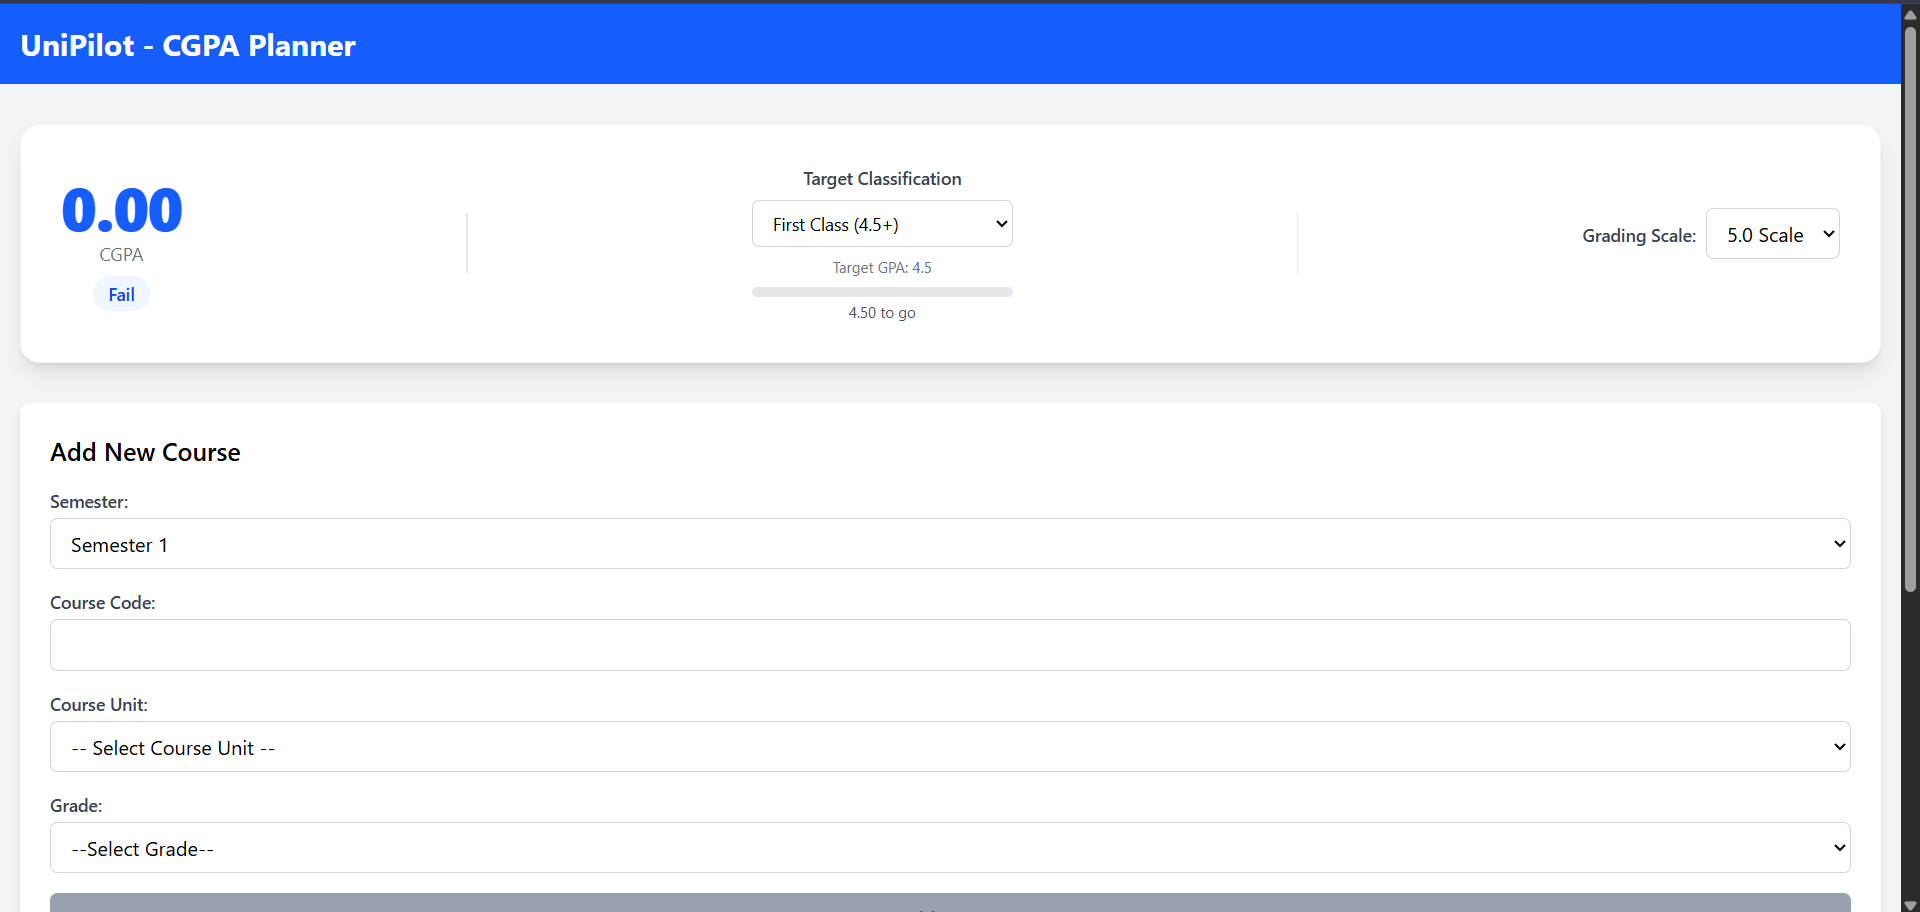
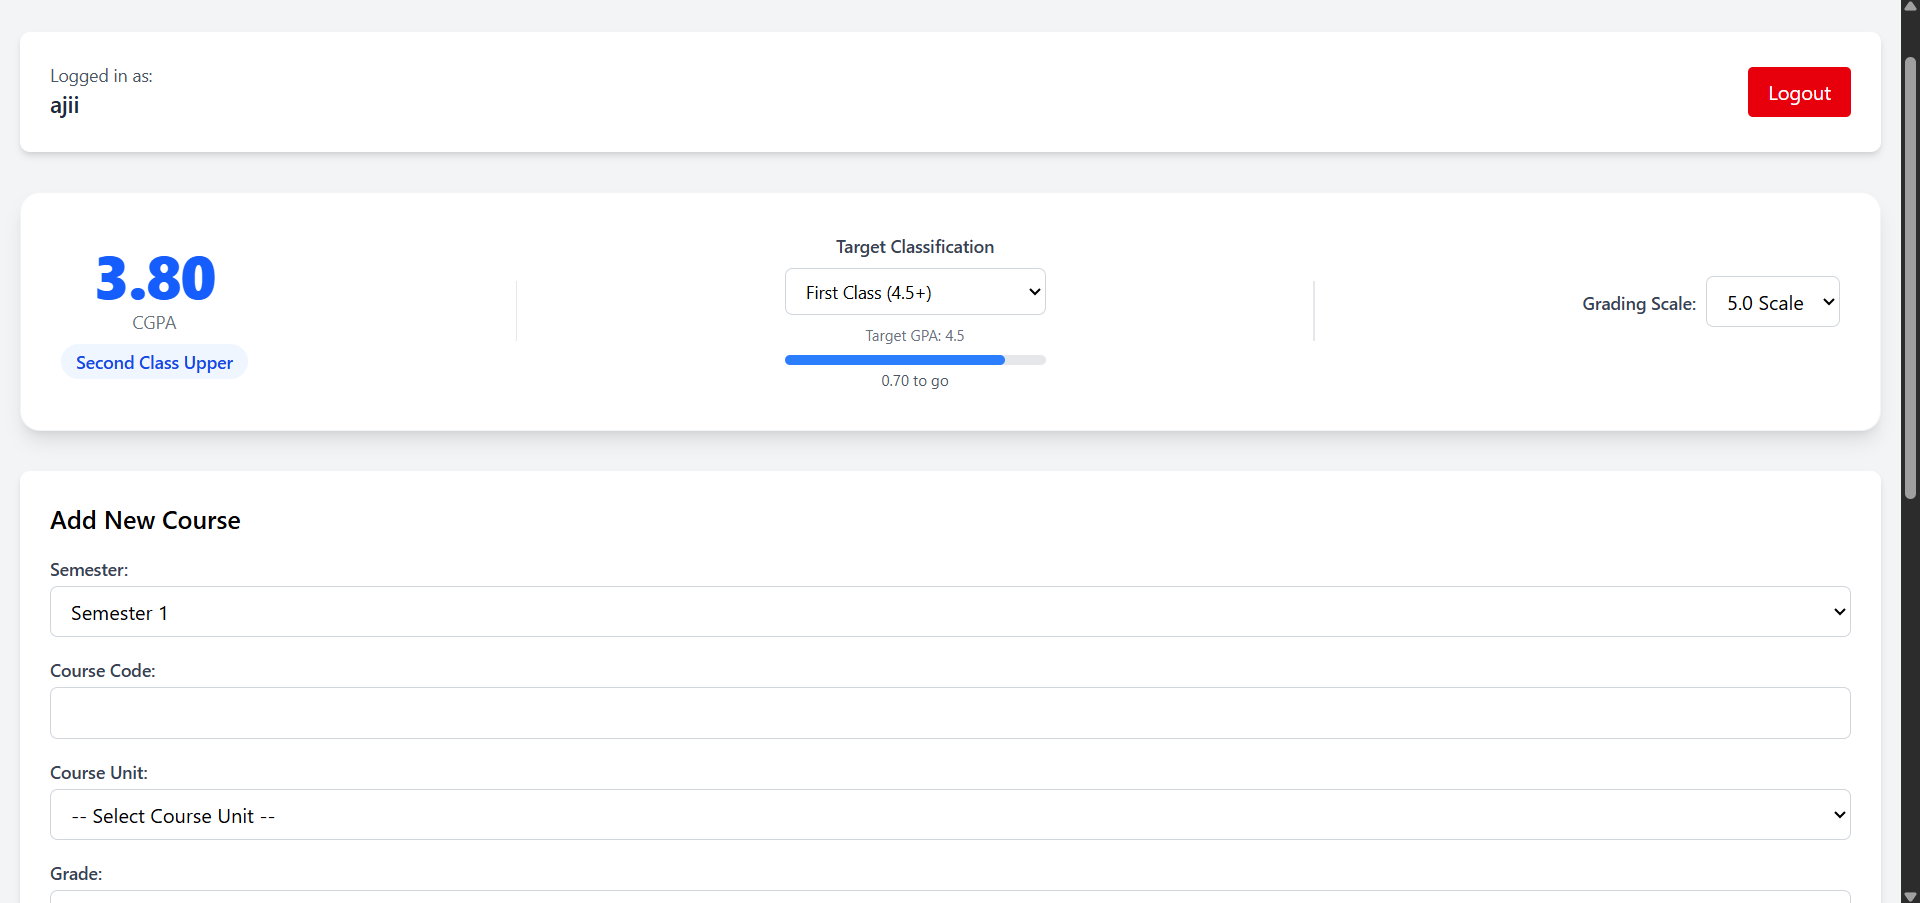
added screenshots and updated readme

diff --git a/README.md b/README.md
@@ -21,6 +21,10 @@ A full-stack web application that helps university students track their GPA and 
 
 ## Screenshots
 
+### Login Page — CGPA Login
+
+![Login Page](./screenshots/login-page.png)
+
 ### Dashboard — CGPA Overview
 
 ![Dashboard](./screenshots/dashboard.png)
@@ -131,6 +135,7 @@ unipilot-project-mvp/
 ├── client/                 # React frontend
 │   ├── src/
 │   │   ├── components/     # Reusable UI components
+|   |   ├── context/        # Authentication
 │   │   ├── pages/          # Dashboard page
 │   │   ├── hooks/          # Custom React hooks
 │   │   └── utils/          # GPA calculation utilities
@@ -138,6 +143,7 @@ unipilot-project-mvp/
 │
 └── server/                 # Express backend
     ├── models/             # Mongoose schema
+    ├── middleware/         # Authentication
     ├── controllers/        # Business logic
     ├── routes/             # API routes
     └── package.json
@@ -154,6 +160,9 @@ unipilot-project-mvp/
 | POST   | `/api/semesters/:id/courses`           | Add a course to a semester |
 | PUT    | `/api/semesters/:id/courses/:courseId` | Update a course            |
 | DELETE | `/api/semesters/:id/courses/:courseId` | Delete a course            |
+| POST   | `/api/auth/register`                   | Register a user            |
+| POST   | `/api/auth/login`                      | Login a user               |
+| POST   | `/api/auth/logout`                     | Logout a user              |
 
 ---
 
